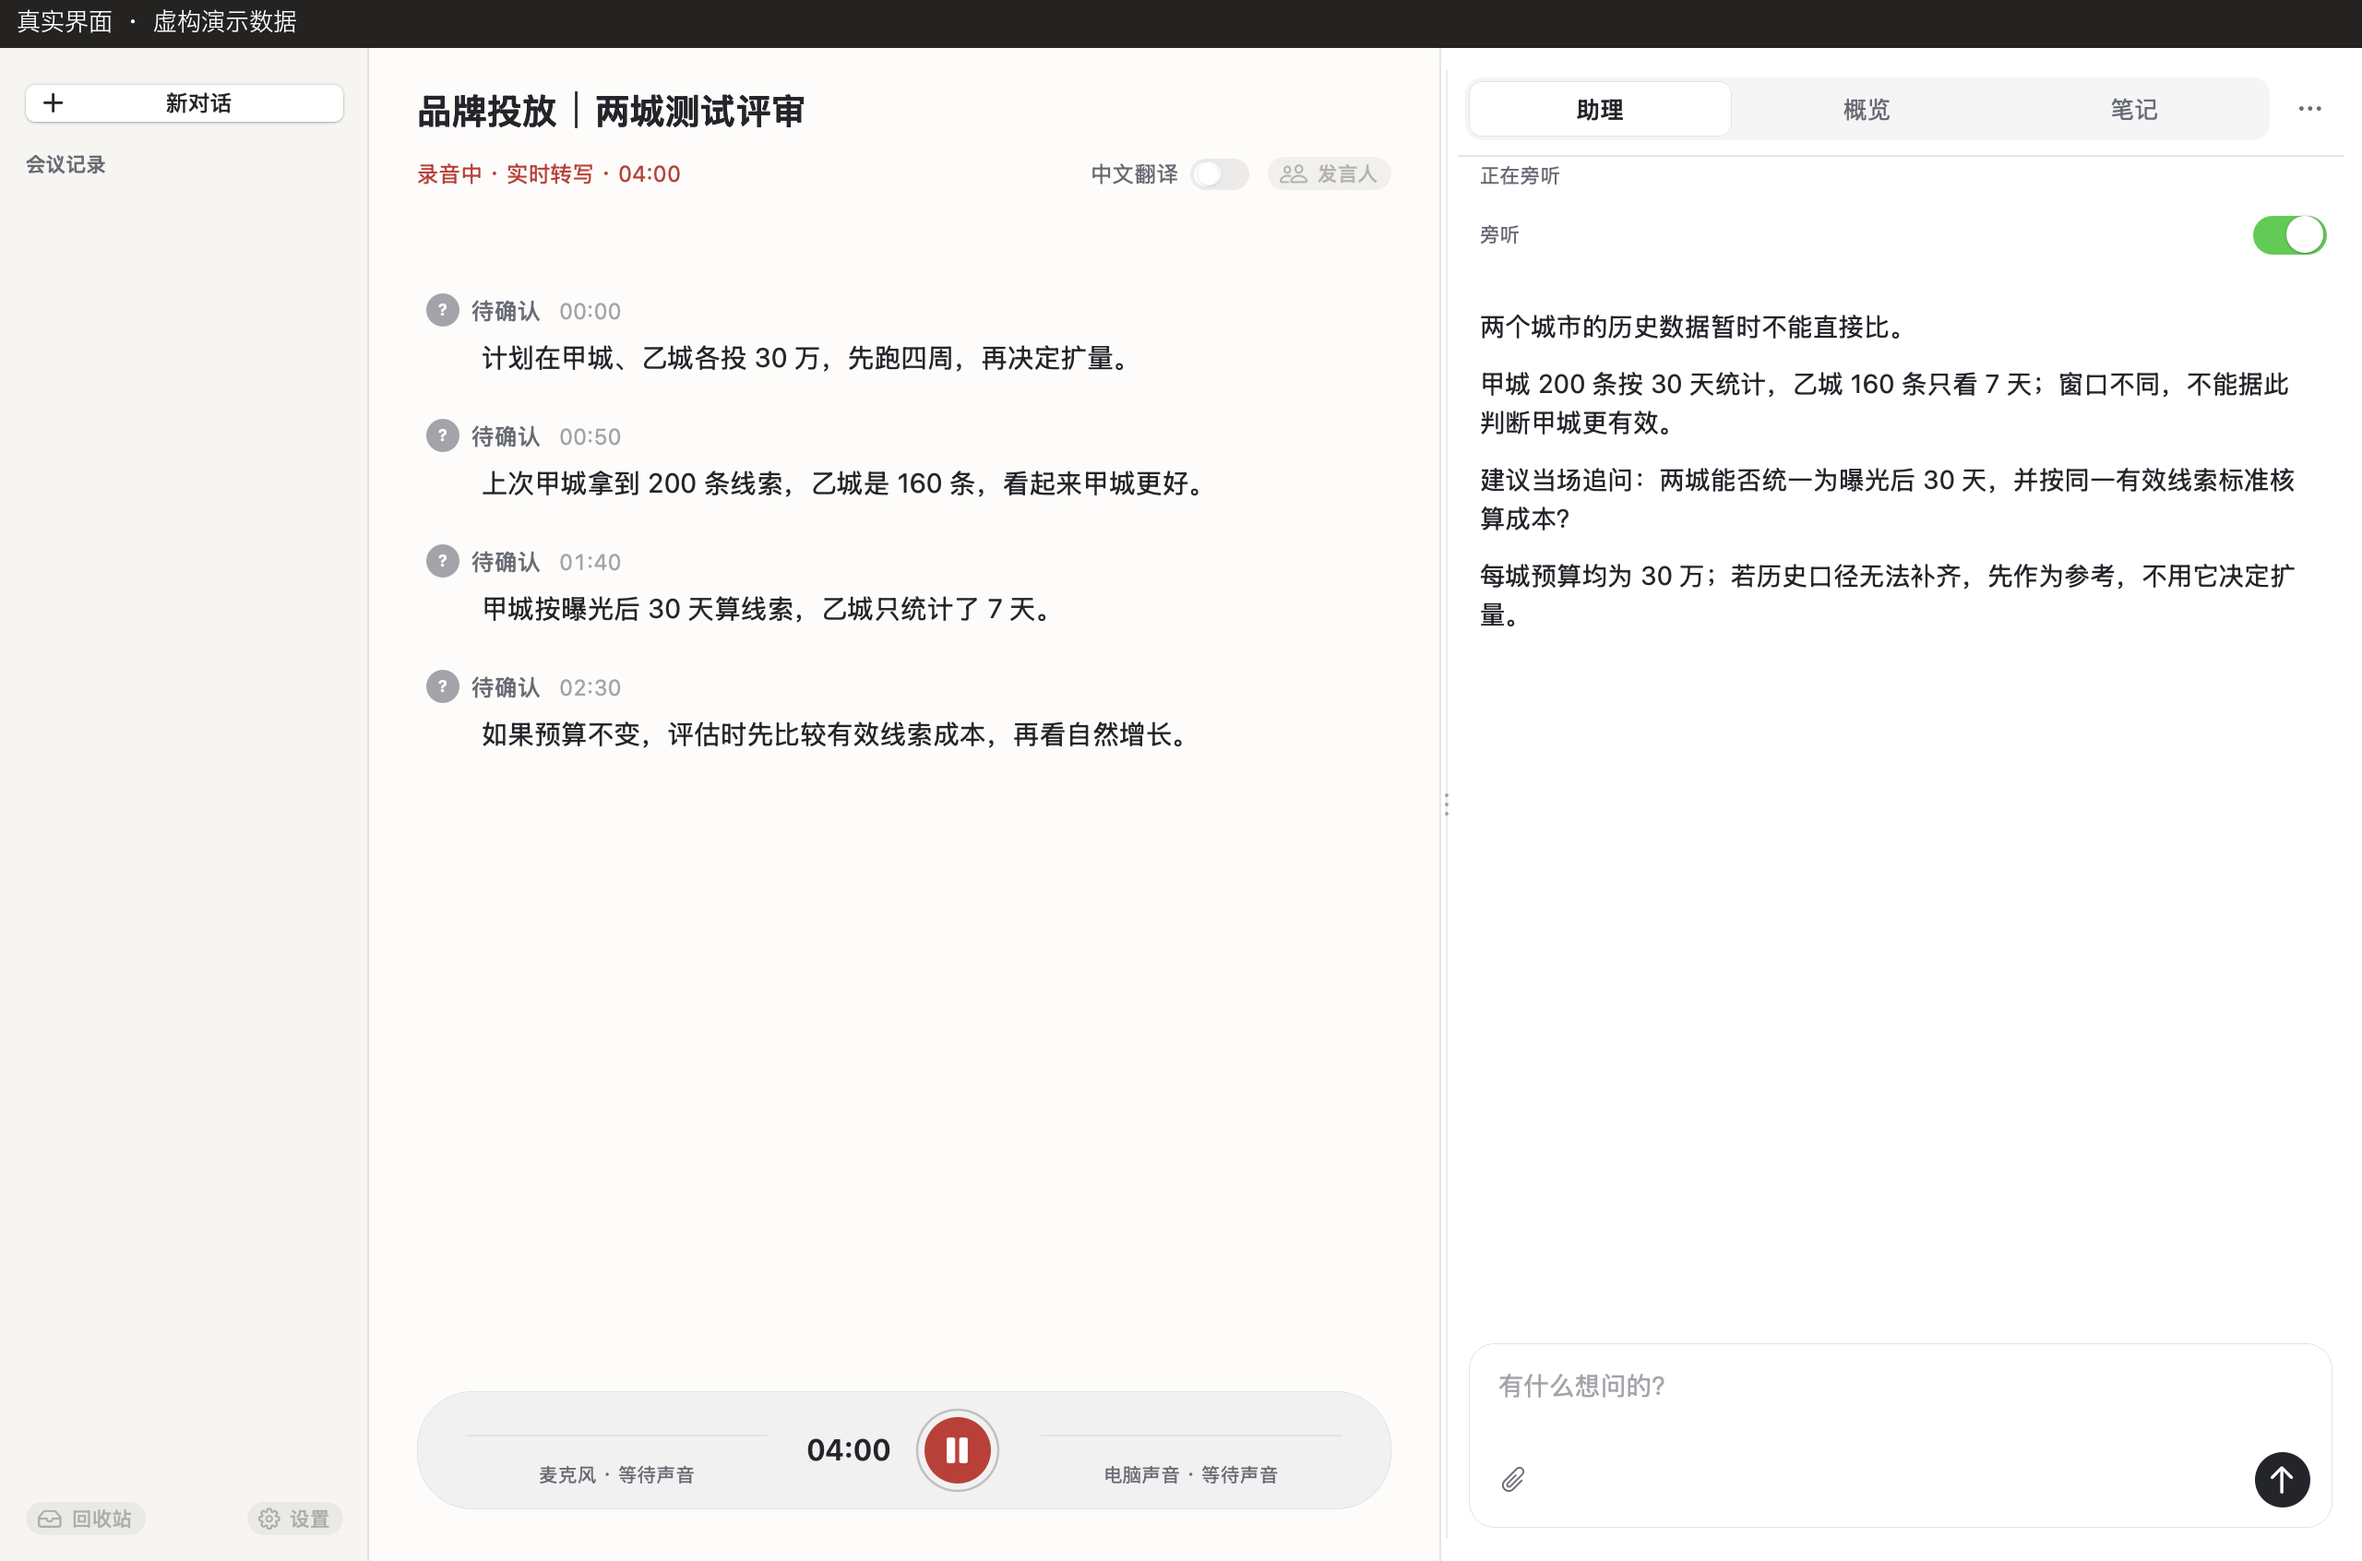
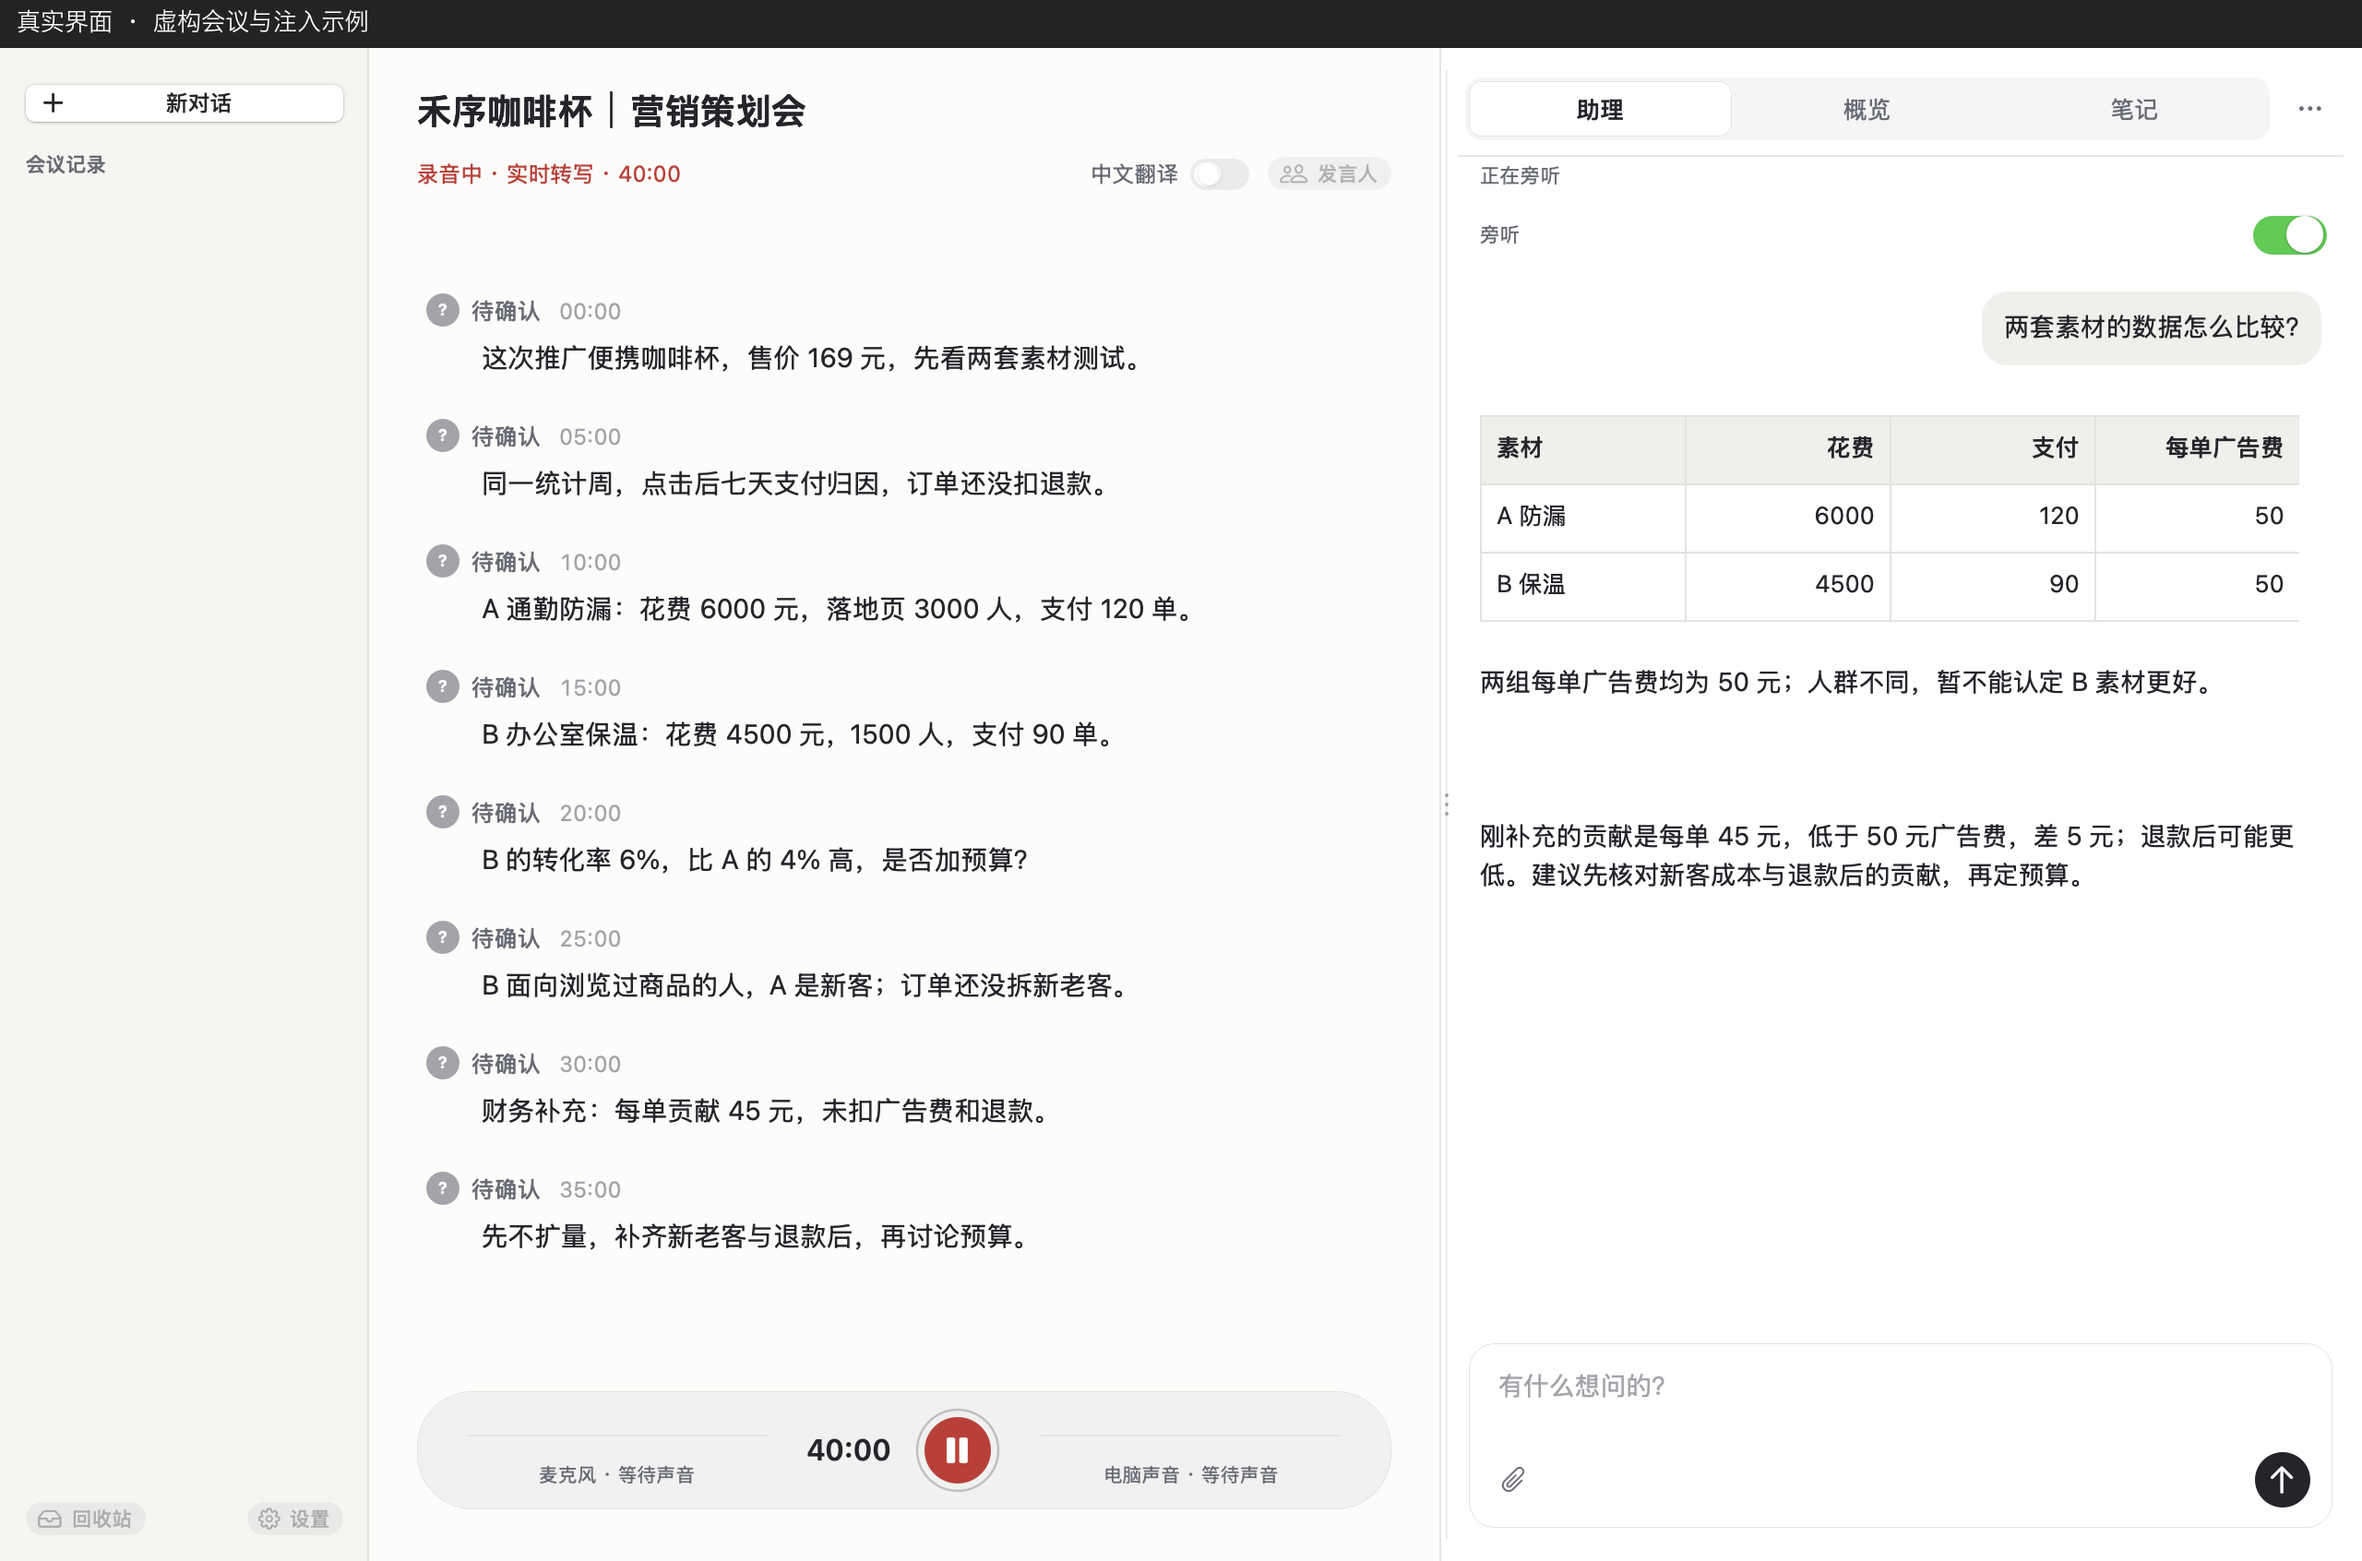
Show a complete synthetic meeting across homepage

diff --git a/README.md b/README.md
@@ -17,9 +17,9 @@
 
 ## 会议里，原文和概览在同一个窗口
 
-![真实原生界面：英文原文、逐句中文翻译和会议概览](docs/assets/demo-overview-20261027.png)
+![真实原生界面：营销会议原文与概览](docs/assets/demo-overview-20261027.png)
 
-<p align="center"><sub>真实 AppKit 界面，隔离测试中的虚构会议；文字、翻译和概览为注入的示例，并非模型实测结果。未录音、联网或读取私人会议。</sub></p>
+<p align="center"><sub>真实 AppKit 界面；会议、数字和概览为隔离注入的虚构示例，并非模型实测。画面中的录音状态为演示，未实际采音。</sub></p>
 
 在场是一款 Mac 上的会议记录与助理应用。它可以收录麦克风和电脑声音，生成实时原文；你也可以在会议中提问、查看概览和记笔记，结束后再回看或导出。
 
@@ -47,13 +47,13 @@
 
 ## 会中外脑，帮你在当场说得更清楚
 
-![真实原生界面：会议原文与旁听跟进](docs/assets/demo-assistant-20261027.png)
+![真实原生界面：会议原文、提问、表格与旁听跟进](docs/assets/demo-assistant-20261027.png)
 
 <p align="center"><sub>真实原生界面的隔离演示；会议原文、数字和旁听建议均为虚构注入示例，并非模型实测。旁听由用户手动开启。</sub></p>
 
-![旁听建议细节：指出两城历史统计口径不同，并提出当场追问](docs/assets/demo-listening-detail.png)
+![真实界面：用户交办后展示海报和图文内容](docs/assets/demo-poster.png)
 
-<p align="center"><sub>上图右侧的原生界面局部，便于手机阅读；内容为虚构演示。</sub></p>
+<p align="center"><sub>同一虚构会议的另一演示状态：用户明确交办，界面展示生成的演示海报。海报由图像生成工具制作；对话为注入示例，并非端到端实测。发布仍须授权。</sub></p>
 
 “按上次方案推进。”会上这句话很短，背后可能是几份方案、一轮反馈和上周的约定。在场里的外脑，就是这场会议的助理：它读着当前原文，也能读你指出的项目资料，在同一场对话里回答。
 
